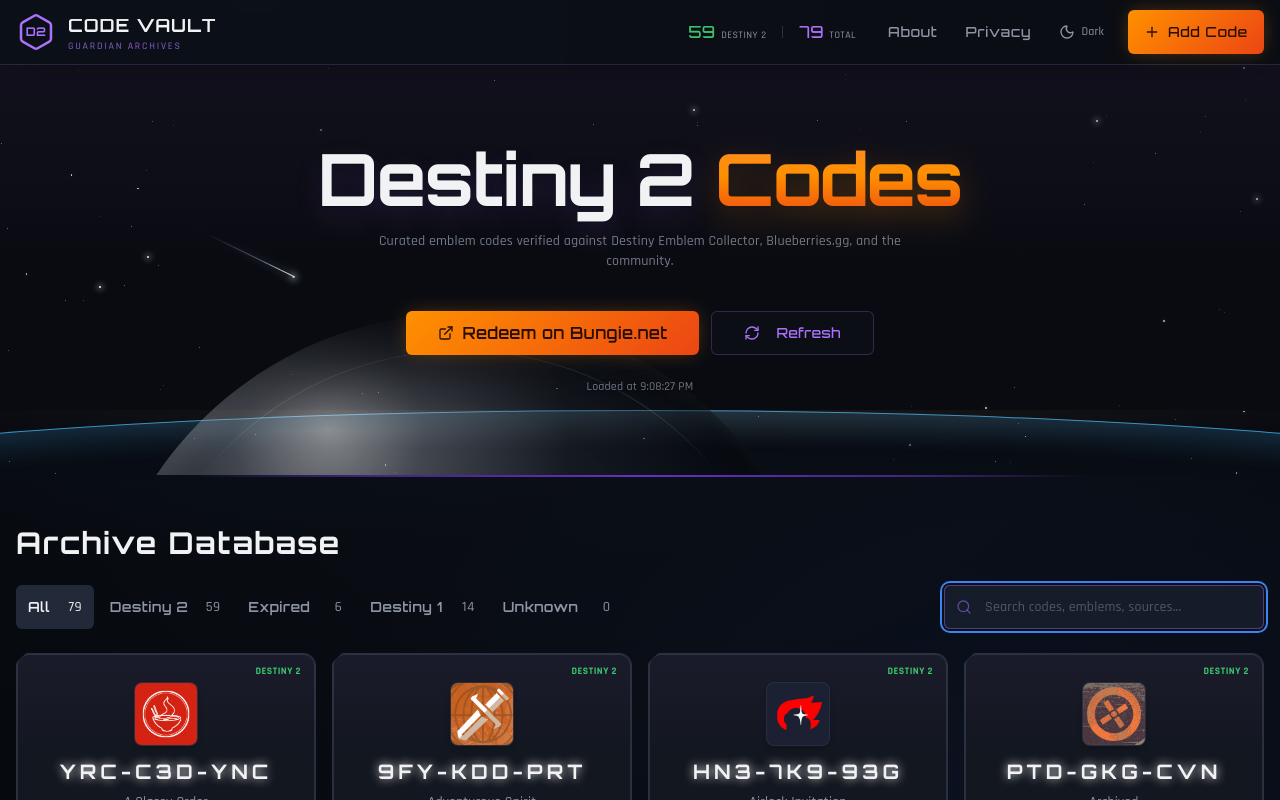
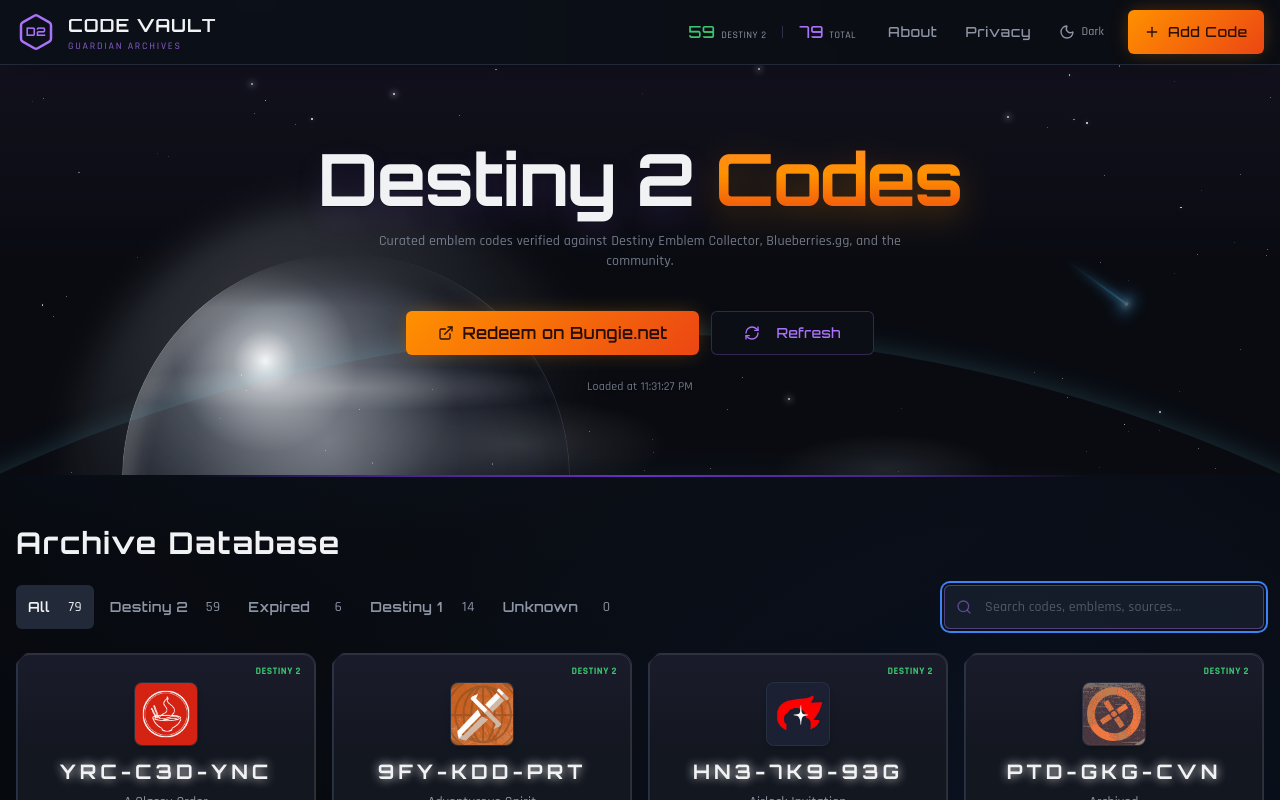
Curve the Earth horizon and brighten the meteors (#201)
The cards, glitch codes, and title stay. Shooting stars grow a bright head and a long tail, then go quiet. Earth is a curved limb, and the Traveler rises behind it.

diff --git a/src/index.css b/src/index.css
@@ -893,21 +893,24 @@
     50% { opacity: var(--tw-max, 1); }
   }
 
-  /* A short streak, mostly off, so it reads as a meteor rather than a sliding bar. */
+  /* A wake with a bright head and a long tail. Mostly absent, so the sky stays quiet. */
   .shooting-star {
+    --wake: 206 80% 82%;
     position: absolute;
-    height: 1px;
+    height: 2px;
     width: 8rem;
+    border-radius: 999px;
+    opacity: 0;
     background: linear-gradient(
       90deg,
       transparent 0%,
-      rgba(255, 255, 255, 0.02) 30%,
-      rgba(198, 214, 255, 0.45) 72%,
+      hsl(var(--wake) / 0) 28%,
+      hsl(var(--wake) / 0.18) 58%,
+      hsl(var(--wake) / 0.72) 84%,
       #fff 100%
     );
-    border-radius: 999px;
-    opacity: 0;
-    filter: drop-shadow(0 0 4px rgba(210, 224, 255, 0.85));
+    filter: drop-shadow(0 0 6px hsl(var(--wake) / 0.85));
+    transform-origin: 100% 50%;
     animation: meteor var(--duration, 14s) linear infinite;
     animation-delay: var(--delay, 0s);
   }
@@ -915,39 +918,53 @@
   .shooting-star::before {
     content: '';
     position: absolute;
-    right: 0;
+    right: -1px;
     top: 50%;
-    width: 2px;
-    height: 2px;
+    width: 4px;
+    height: 4px;
     transform: translateY(-50%);
     border-radius: 50%;
     background: #fff;
-    box-shadow: 0 0 6px 1px rgba(255, 255, 255, 0.85);
+    box-shadow:
+      0 0 6px 1px #fff,
+      0 0 16px 5px hsl(var(--wake) / 0.9),
+      -22px 0 10px 1px hsl(var(--wake) / 0.28);
+  }
+
+  .shooting-star::after {
+    content: '';
+    position: absolute;
+    right: 0;
+    top: 50%;
+    width: 70%;
+    height: 8px;
+    transform: translateY(-50%);
+    border-radius: 999px;
+    background: linear-gradient(90deg, transparent 0%, hsl(var(--wake) / 0.45) 100%);
+    filter: blur(2px);
   }
 
   .shooting-star-warm {
-    background: linear-gradient(
-      90deg,
-      transparent 0%,
-      hsl(var(--solar) / 0.05) 40%,
-      hsl(var(--solar-accent) / 0.7) 78%,
-      #fff 100%
-    );
-    filter: drop-shadow(0 0 5px hsl(var(--solar) / 0.7));
+    --wake: var(--solar-accent);
+  }
+
+  .shooting-star-arc {
+    --wake: var(--arc);
   }
 
   @keyframes meteor {
     0% {
-      transform: translate3d(0, 0, 0) rotate(var(--angle, 28deg));
+      transform: translate3d(0, 0, 0) rotate(var(--angle, 18deg)) scaleX(0.25);
       opacity: 0;
     }
     3% { opacity: 1; }
-    12% {
-      transform: translate3d(var(--travel, 64vw), var(--drop, 34vh), 0) rotate(var(--angle, 28deg));
+    7% { opacity: 1; }
+    18% {
+      transform: translate3d(var(--travel, 80vw), var(--drop, 20vh), 0) rotate(var(--angle, 18deg)) scaleX(1);
       opacity: 0;
     }
     100% {
-      transform: translate3d(var(--travel, 64vw), var(--drop, 34vh), 0) rotate(var(--angle, 28deg));
+      transform: translate3d(var(--travel, 80vw), var(--drop, 20vh), 0) rotate(var(--angle, 18deg)) scaleX(1);
       opacity: 0;
     }
   }
@@ -977,67 +994,83 @@
     background: #000;
   }
 
-  /* Earth's atmosphere, a thin arc along the bottom. No continents. */
+  /* Earth. The bright air is a ring on the circle, so the horizon bows. */
   .hero-limb {
     position: absolute;
-    left: -35%;
-    right: -35%;
-    bottom: -42%;
-    height: 58%;
-    border-radius: 50%;
-    pointer-events: none;
-    box-shadow:
-      inset 0 1px 0 0 hsl(var(--arc) / 0.7),
-      inset 0 12px 28px hsl(var(--arc) / 0.18),
-      inset 0 36px 70px hsl(205 70% 40% / 0.06);
-  }
-
-  .hero-limb::before {
-    content: '';
-    position: absolute;
-    left: 18%;
-    right: 18%;
-    top: 0;
-    height: 2.5rem;
-    background: radial-gradient(ellipse at 50% 0%, hsl(32 45% 58% / 0.1), transparent 72%);
-  }
-
-  /* The Traveler. Pearl, lit from the upper left, cropped so only the crown shows. */
-  .hero-traveler {
-    position: absolute;
-    left: 36%;
-    bottom: 0;
-    width: clamp(26rem, 62vw, 46rem);
-    aspect-ratio: 1;
-    transform: translate(-50%, 78%);
+    left: 50%;
+    bottom: -229vw;
+    width: 240vw;
+    height: 240vw;
+    transform: translateX(-50%);
     border-radius: 50%;
     pointer-events: none;
     background:
-      radial-gradient(circle at 32% 16%,
-        hsl(0 0% 100% / 0.5) 0%,
-        hsl(214 28% 88% / 0.28) 12%,
-        hsl(216 16% 64% / 0.1) 30%,
-        hsl(220 22% 34% / 0.04) 48%,
-        transparent 64%),
-      radial-gradient(circle at 76% 34%,
-        hsl(222 45% 3% / 0.55) 0%,
-        transparent 42%);
-    box-shadow:
-      inset -36px 8px 70px hsl(222 45% 3% / 0.45),
-      inset 14px 6px 24px hsl(0 0% 100% / 0.14),
-      0 0 64px 6px hsl(210 40% 82% / 0.05);
-    -webkit-mask-image: linear-gradient(to bottom, transparent 0%, #000 16%, #000 100%);
-    mask-image: linear-gradient(to bottom, transparent 0%, #000 16%, #000 100%);
+      radial-gradient(ellipse 7% 2.2% at 46% 3.6%, hsl(0 0% 100% / 0.14), transparent 70%),
+      radial-gradient(ellipse 5% 1.6% at 58% 4.4%, hsl(198 50% 94% / 0.1), transparent 72%),
+      radial-gradient(circle at 50% 50%,
+        hsl(222 46% 5% / 0.96) 0,
+        hsl(220 44% 8% / 0.94) calc(50% - 42px),
+        hsl(212 58% 20% / 0.88) calc(50% - 18px),
+        hsl(198 86% 48% / 0.55) calc(50% - 7px),
+        hsl(188 100% 82% / 0.9) calc(50% - 2px),
+        transparent 50%);
+    box-shadow: 0 0 28px 1px hsl(192 95% 72% / 0.18);
   }
 
-  /* One shell latitude, parallel to the silhouette, not a chord across the disc. */
-  .hero-traveler-ring {
+  /* The Traveler. Pearl shell rising behind the limb, lit from the upper left. */
+  .hero-traveler {
     position: absolute;
-    inset: 5%;
+    left: 27%;
+    bottom: 8%;
+    width: clamp(16rem, 36vw, 28rem);
+    aspect-ratio: 1;
+    transform: translate(-50%, 58%);
+    pointer-events: none;
+  }
+
+  .hero-traveler-glow {
+    position: absolute;
+    inset: -12%;
     border-radius: 50%;
-    border: 1px solid hsl(210 40% 100% / 0.2);
-    -webkit-mask-image: linear-gradient(to bottom, #000 0%, #000 8%, transparent 18%);
-    mask-image: linear-gradient(to bottom, #000 0%, #000 8%, transparent 18%);
+    background: radial-gradient(circle at 38% 24%, hsl(210 40% 92% / 0.2), transparent 58%);
+    filter: blur(16px);
+  }
+
+  @media (max-width: 640px) {
+    .hero-traveler {
+      left: 16%;
+      bottom: -6%;
+      width: 15rem;
+      transform: translate(-50%, 76%);
+    }
+  }
+
+  .hero-traveler-shell {
+    position: absolute;
+    inset: 0;
+    border-radius: 50%;
+    background:
+      radial-gradient(ellipse 78% 7% at 50% 30%, hsl(0 0% 100% / 0.2), transparent 72%),
+      radial-gradient(circle at 32% 24%,
+        hsl(0 0% 100% / 0.95) 0%,
+        hsl(210 35% 94% / 0.55) 7%,
+        hsl(216 18% 76% / 0.2) 20%,
+        transparent 42%),
+      radial-gradient(circle at 46% 42%,
+        hsl(220 16% 82% / 0.42) 0%,
+        hsl(220 18% 52% / 0.16) 38%,
+        hsl(222 28% 16% / 0.22) 64%,
+        transparent 78%),
+      radial-gradient(circle at 82% 46%,
+        hsl(222 42% 4% / 0.78) 0%,
+        hsl(222 36% 8% / 0.28) 26%,
+        transparent 50%);
+    box-shadow:
+      inset -22px 4px 36px hsl(222 42% 4% / 0.42),
+      inset 12px 8px 18px hsl(0 0% 100% / 0.22),
+      inset 0 0 0 1px hsl(210 40% 96% / 0.16);
+    -webkit-mask-image: linear-gradient(to bottom, transparent 0%, #000 12%, #000 100%);
+    mask-image: linear-gradient(to bottom, transparent 0%, #000 12%, #000 100%);
   }
 
   .hero-loaded {

diff --git a/src/components/HeroSection.tsx b/src/components/HeroSection.tsx
@@ -46,18 +46,20 @@ function generateStars(count: number): SkyStar[] {
 export function HeroSection({ lastUpdate, onRefresh, isLoading }: HeroSectionProps) {
   const stars = useMemo(() => generateStars(72), []);
   const shootingStars = useMemo(() => [
-    { id: 1, top: '18%', left: '-12%', delay: '1s', duration: '13s', angle: '26deg', travel: '78vw', drop: '42vh', width: '8.5rem' },
-    { id: 2, top: '8%', left: '6%', delay: '6.5s', duration: '16s', angle: '34deg', travel: '62vw', drop: '36vh', width: '6.5rem' },
-    { id: 3, top: '28%', left: '-6%', delay: '11s', duration: '15s', angle: '18deg', travel: '84vw', drop: '28vh', width: '10rem', warm: true },
-    { id: 4, top: '4%', left: '38%', delay: '3.2s', duration: '18s', angle: '42deg', travel: '48vw', drop: '46vh', width: '5.5rem' },
+    { id: 1, top: '7%', left: '-14%', delay: '1.4s', duration: '11s', angle: '14deg', travel: '92vw', drop: '18vh', width: '16rem', tone: 'arc' as const },
+    { id: 2, top: '3%', left: '18%', delay: '6.2s', duration: '15s', angle: '28deg', travel: '52vw', drop: '24vh', width: '10rem' },
+    { id: 3, top: '14%', left: '-20%', delay: '9.8s', duration: '9.5s', angle: '8deg', travel: '120vw', drop: '12vh', width: '22rem', tone: 'warm' as const },
+    { id: 4, top: '78%', left: '-8%', delay: '4s', duration: '13s', angle: '6deg', travel: '88vw', drop: '8vh', width: '18rem' },
+    { id: 5, top: '20%', left: '48%', delay: '12.5s', duration: '16s', angle: '36deg', travel: '40vw', drop: '26vh', width: '8rem', tone: 'arc' as const },
   ], []);
 
   return (
     <section className="hero-sky relative py-16 md:py-20 overflow-hidden">
-      <div className="hero-limb" aria-hidden="true" />
       <div className="hero-traveler" aria-hidden="true">
-        <span className="hero-traveler-ring" />
+        <span className="hero-traveler-glow" />
+        <span className="hero-traveler-shell" />
       </div>
+      <div className="hero-limb" aria-hidden="true" />
       <div className="stars-container">
         {stars.map((star) => (
           <div
@@ -76,7 +78,7 @@ export function HeroSection({ lastUpdate, onRefresh, isLoading }: HeroSectionPro
         {shootingStars.map((star) => (
           <div
             key={`shooting-${star.id}`}
-            className={`shooting-star${star.warm ? ' shooting-star-warm' : ''}`}
+            className={`shooting-star${star.tone ? ` shooting-star-${star.tone}` : ''}`}
             style={{
               top: star.top,
               left: star.left,

diff --git a/README.md b/README.md
@@ -315,6 +315,14 @@ This release directly addresses community feedback from [r/DestinyTheGame](https
 ### Version
 - Bumped `package.json` version to **2.4.0**
 
+## 📋 v2.9.7 Updates (November 2026)
+
+The wakes have a bright head and a long tail. Earth is a bowed limb, and the Traveler rises behind it.
+
+- Shooting stars are cold, warm, or arc, and they stay mostly off.
+- The horizon follows the curve of the planet. The air is a thin bright ring.
+- The pearl sphere sits behind that limb. On a phone it stays in the corner.
+
 ## 📋 v2.9.6 Updates (November 2026)
 
 The hero is the Tower at night. A pearl sphere hangs low over a thin atmosphere, and the Void wash across the top stays.
